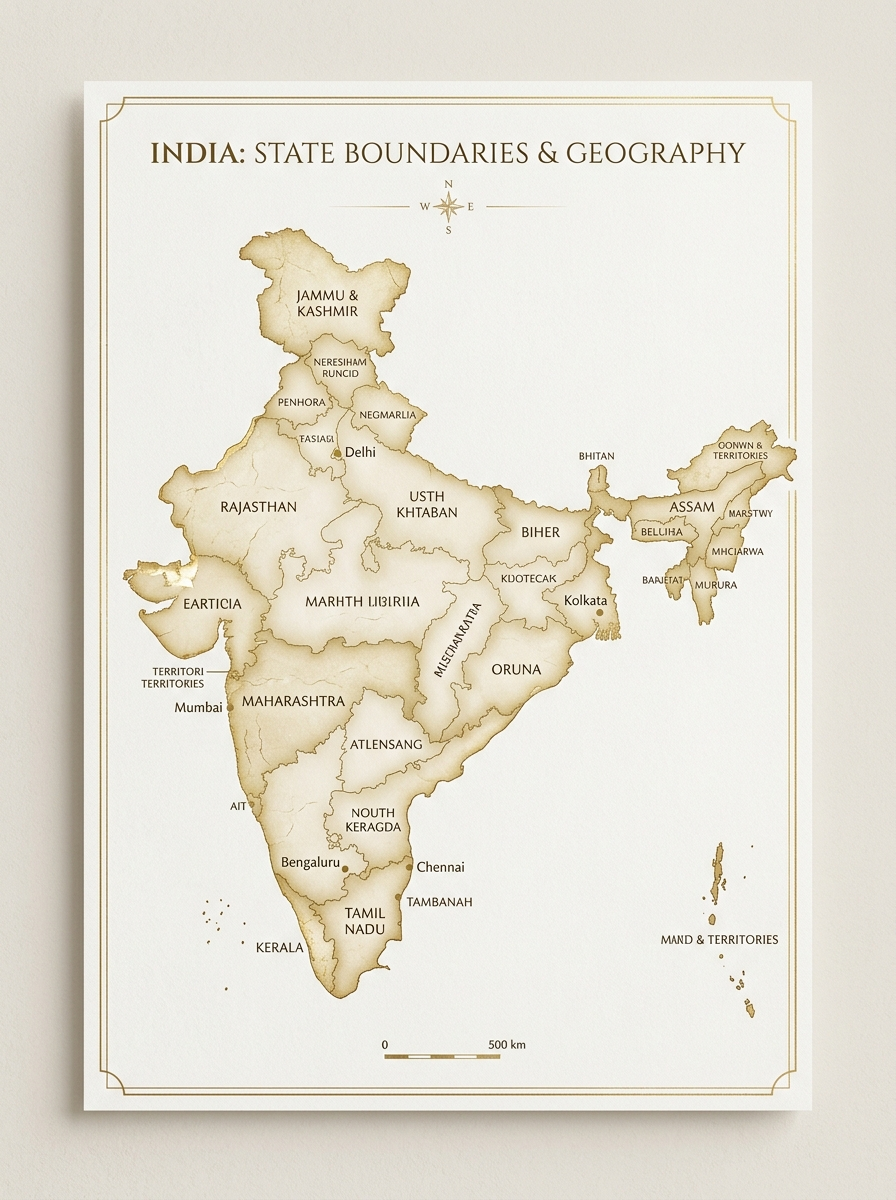
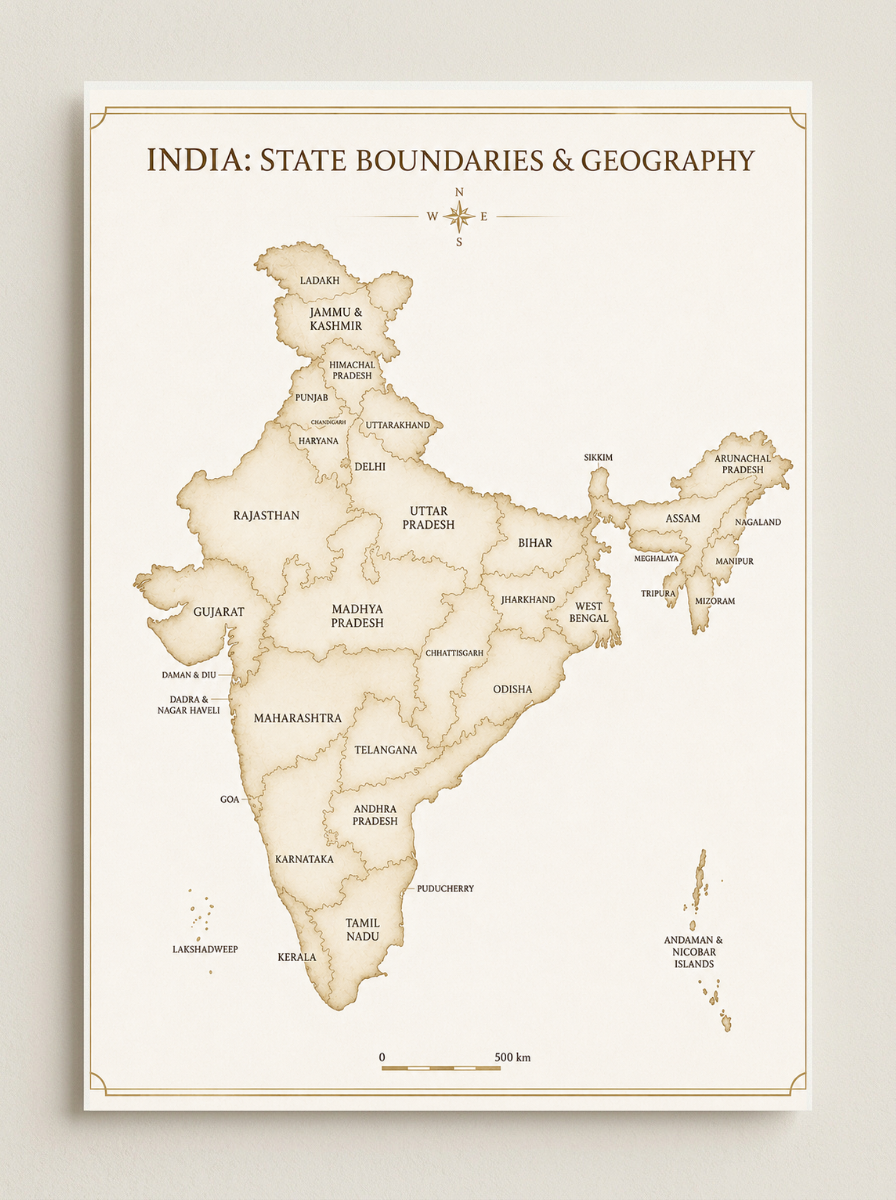
new changes

Changed region(s): [[0.0938, 0.0925, 0.9062, 0.925], [0.125, 0.0617, 0.875, 0.2158], [0.1875, 0.7708, 0.25, 0.8017]]

diff --git a/src/pages/OurPresence.jsx b/src/pages/OurPresence.jsx
@@ -128,7 +128,7 @@ export default function OurPresence() {
               {/* ================= BENGALURU PIN OVERLAY ================= */}
               {/* Pin location positioned relative to the map (Karnataka region is located in South West India) */}
               <div 
-                className="absolute bottom-[28%] left-[34%] z-20 flex flex-col items-center cursor-pointer group/pin"
+                className="absolute bottom-[16%] left-[38%] z-20 flex flex-col items-center cursor-pointer group/pin"
                 style={{ transform: 'translate(-50%, -50%)' }}
               >
                 {/* Concentric radar pulses */}
@@ -158,7 +158,7 @@ export default function OurPresence() {
               {/* ================= SHIMOGA PIN OVERLAY ================= */}
               {/* Located slightly north-west of Bengaluru */}
               <div 
-                className="absolute bottom-[35%] left-[29%] z-20 flex flex-col items-center cursor-pointer group/pin"
+                className="absolute bottom-[19%] left-[34%] z-20 flex flex-col items-center cursor-pointer group/pin"
                 style={{ transform: 'translate(-50%, -50%)' }}
               >
                 {/* Concentric radar pulses */}
